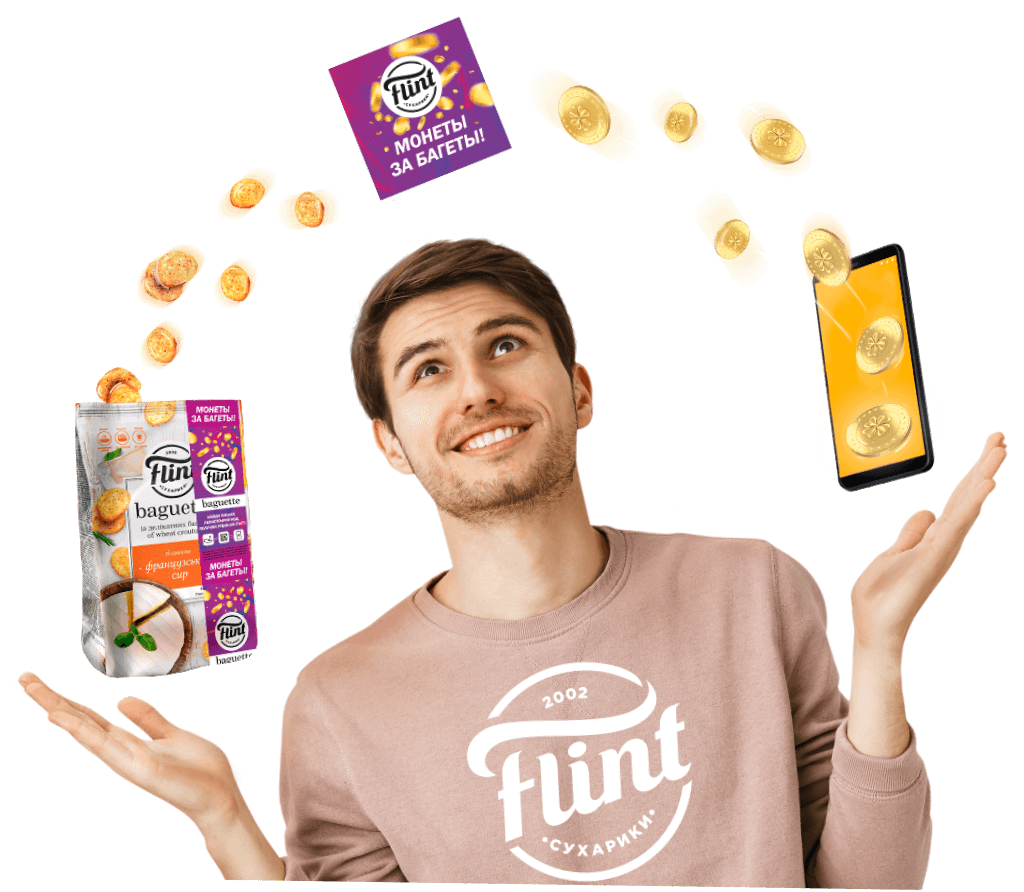
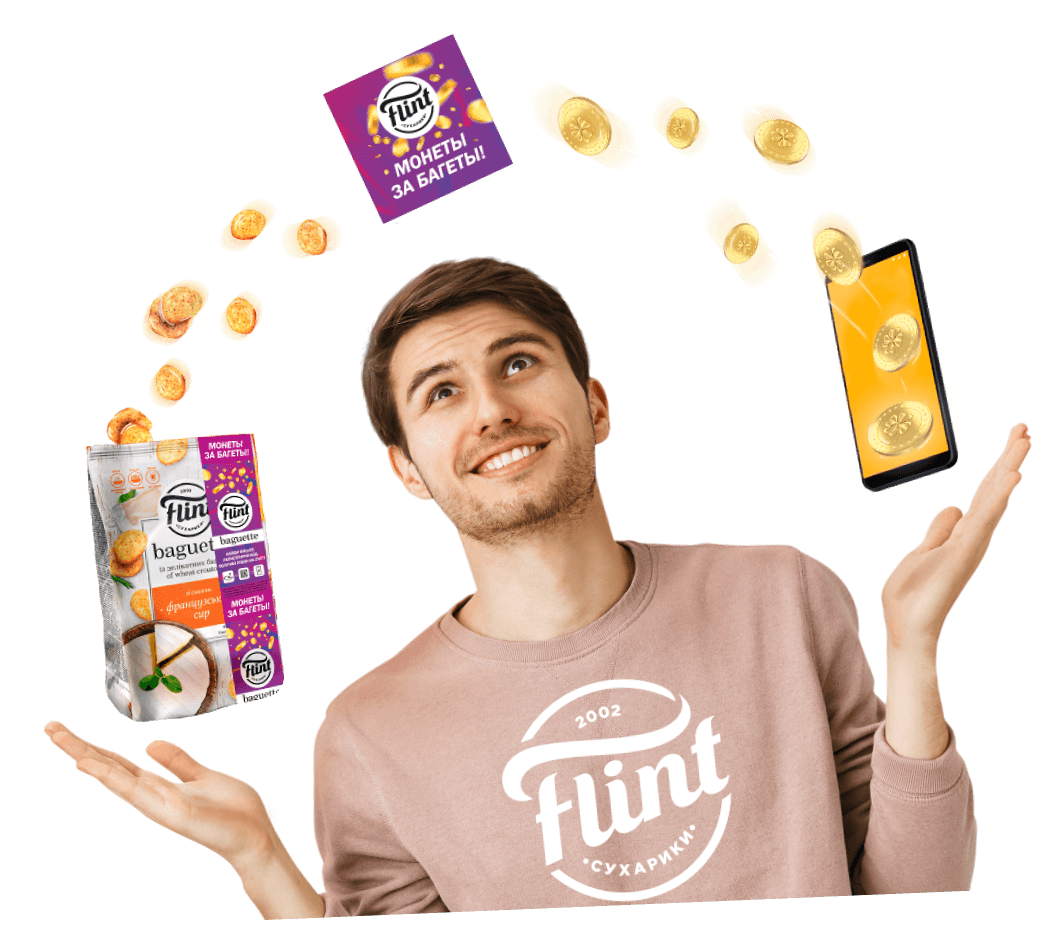
added lines to desktop

diff --git a/src/components/MainBlock.vue b/src/components/MainBlock.vue
@@ -8,13 +8,21 @@
         class="MainBlock_user"
       />
       <!-- <img src="../assets/client_mob.png" alt="монеты за багеты" class="MainBlock_user"> -->
-
+      <!--
       <img
         src="../assets/mainBlock_line.png"
-        alt="декорация"
+        alt="декорация линии"
         class="MainBlock__decorationLines"
-      />
+      /> -->
       <!-- <img src="../assets/mainBlock_line_mob.png" alt="" class="MainBlock__decorationLines"> -->
+      <div class="MainBlock__lines">
+        <img src="../assets/lines/Vector1.svg" alt="line" />
+        <img src="../assets/lines/Vector2.svg" alt="line" />
+        <img src="../assets/lines/Vector3.svg" alt="line" />
+        <img src="../assets/lines/Vector4.svg" alt="line" />
+        <img src="../assets/lines/Vector5.svg" alt="line" />
+        <img src="../assets/lines/Vector6.svg" alt="line" />
+      </div>
     </div>
     <div class="MainBlock__secondPart">
       <h2>Условия акции</h2>
@@ -86,7 +94,7 @@ export default {
     @media @desktop {
       line-height: 75%;
       position: absolute;
-      left: 3.3%;
+      left: 6%;
       top: 0;
       margin-top: 5%;
       font-size: 9.92vw;
@@ -104,21 +112,56 @@ export default {
     position: relative;
     @media @desktop {
       width: 25vw;
-      width: 70.4%;
+      width: 74%;
       margin: auto;
-      padding-top: 8%;
-      margin-right: 0.45%;
+      padding-top: 7.7vw;
+      margin-right: 2.35%;
     }
   }
 
-  .MainBlock__decorationLines {
+  // .MainBlock__decorationLines {
+  //   position: absolute;
+  //   width: 100%;
+  //   z-index: 1;
+  //   @media @desktop {
+  //     margin-top: 35.5%;
+  //     width: 100%;
+  //     top: 0;
+  //   }
+  // }
+
+  .MainBlock__lines {
     position: absolute;
-    width: 100%;
+    right: 0;
+    top: 74.5vw;
     z-index: 1;
-    @media @desktop {
-      margin-top: 35.5%;
+    /* bottom: 0; */
+    height: 10vw;
+    width: 100%;
+
+    img {
+      position: absolute;
+      bottom: 0;
+      right: 0;
       width: 100%;
-      top: 0;
+      &:nth-child(1) {
+        bottom: 31.4vw;
+      }
+      &:nth-child(2) {
+        bottom: 25.8vw;
+      }
+      &:nth-child(3) {
+        bottom: 20.1vw;
+      }
+      &:nth-child(4) {
+        bottom: 14.4vw;
+      }
+      &:nth-child(5) {
+        bottom: 8.6vw;
+      }
+      &:nth-child(6) {
+        bottom: 4vw;
+      }
     }
   }
   h2 {
